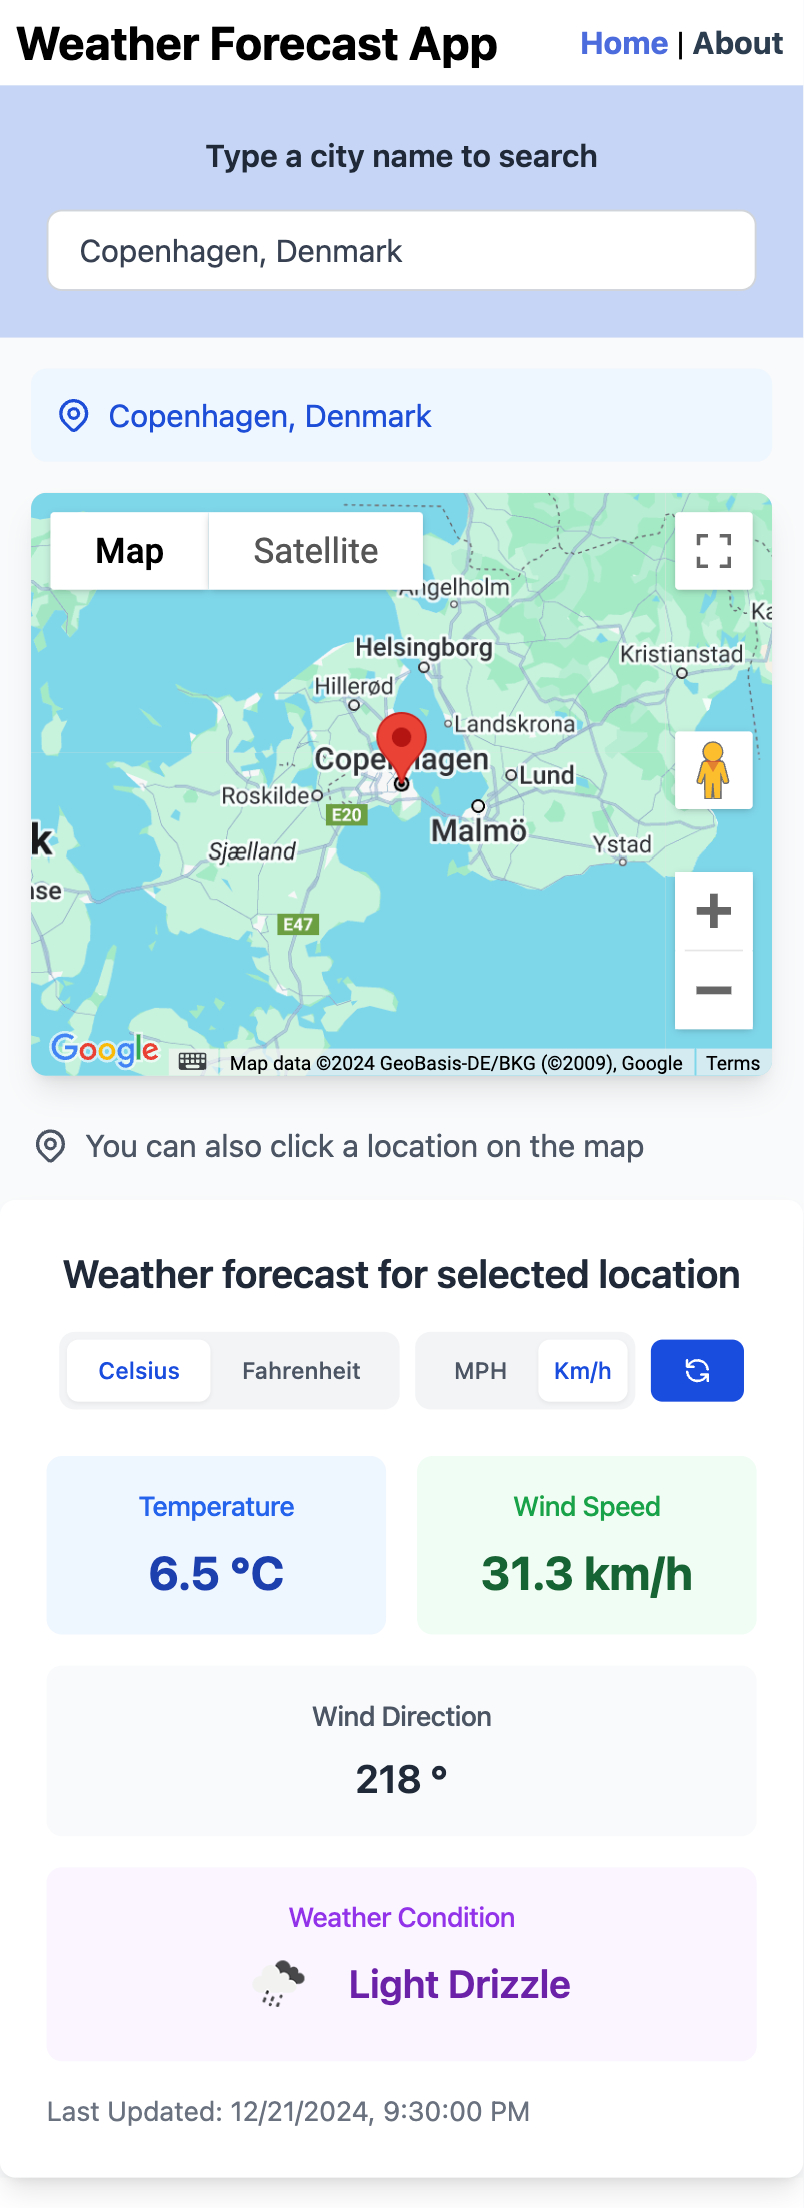
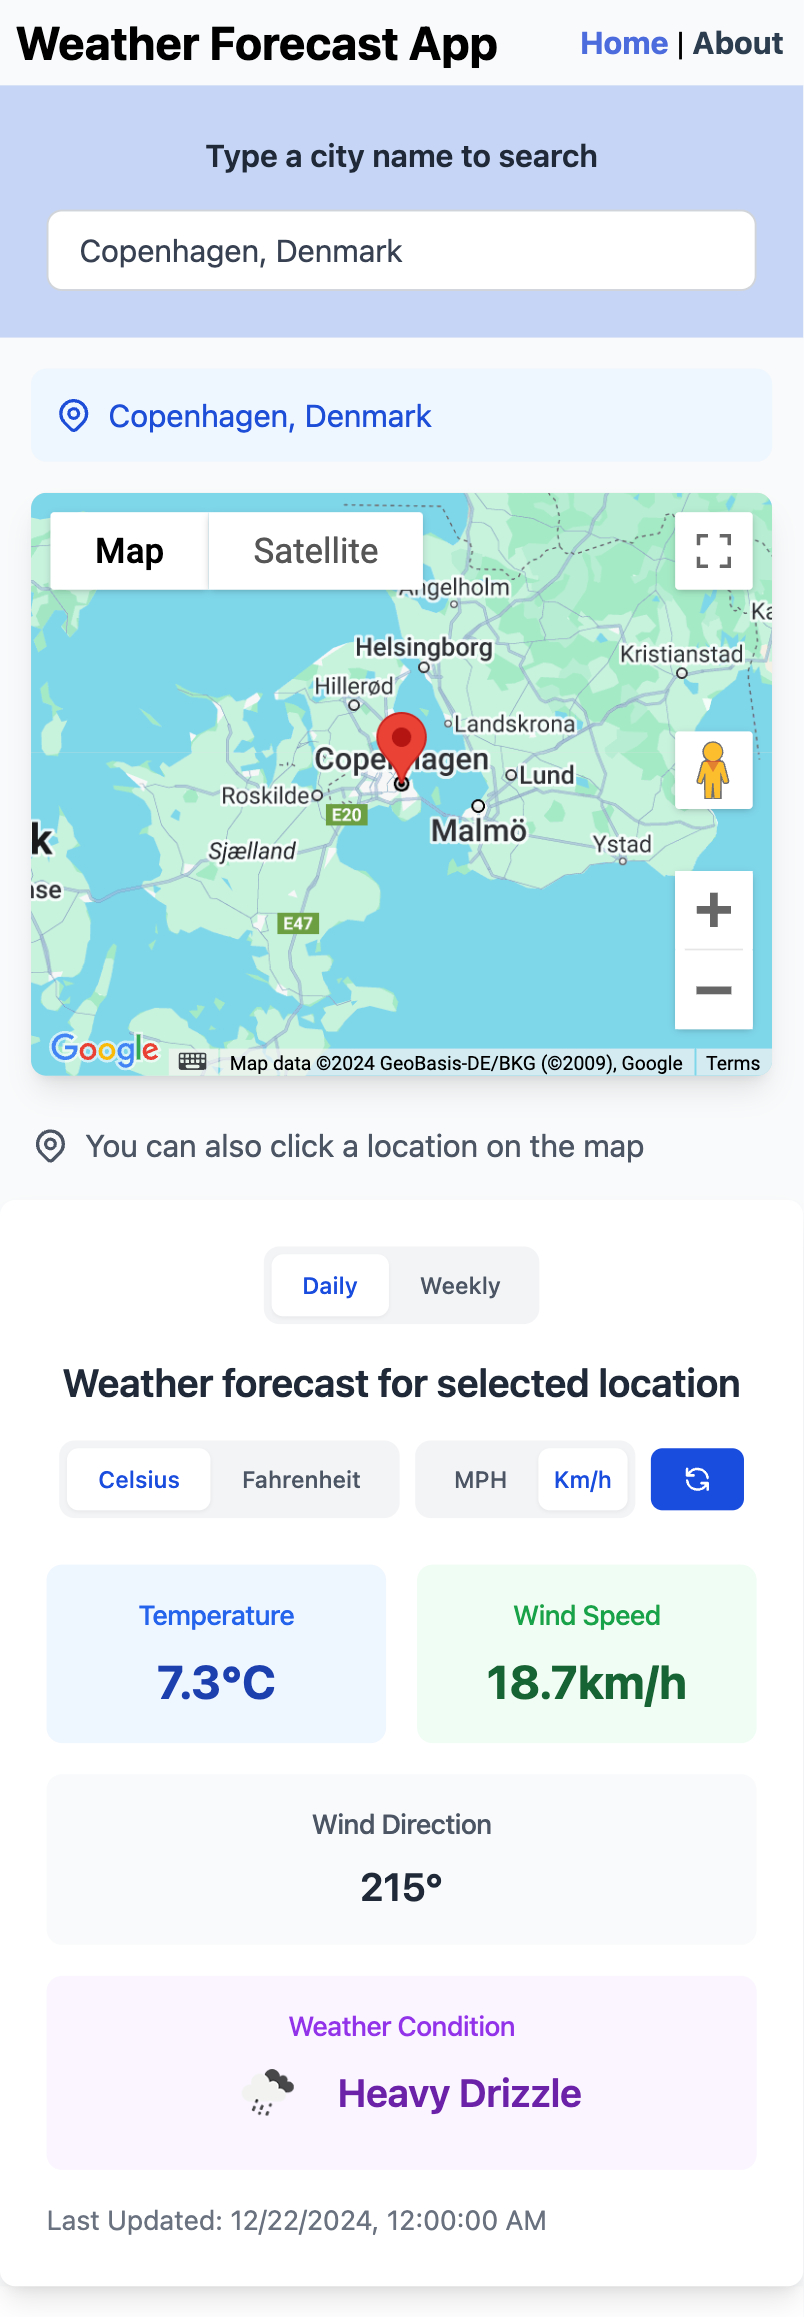
docs: update README with features list and screenshots

diff --git a/README.md b/README.md
@@ -6,12 +6,17 @@ A modern weather forecast application built with Vue.js and Express.js, featurin
   <img src="screenshot.jpg" width="80%" alt="Desktop View" />
 </div>
 
+> View [Desktop Weekly Forecast Screenshot](screenshot-weekly.jpg)
+
 > View [Mobile Screenshot](screenshot-mobile.jpg)
+
+> View [Mobile Weekly Forecast Screenshot](screenshot-mobile-weekly.jpg)
 
 ## Features
 
 - 🌍 Interactive Google Maps integration for location selection
 - 🔍 Location search with Google Places Autocomplete
+- 📅 Toggle between daily and weekly forecasts
 - 🌤 Real-time weather data from Open-Meteo API
 - 🔄 Unit conversion support:
   - Temperature (Celsius/Fahrenheit)
